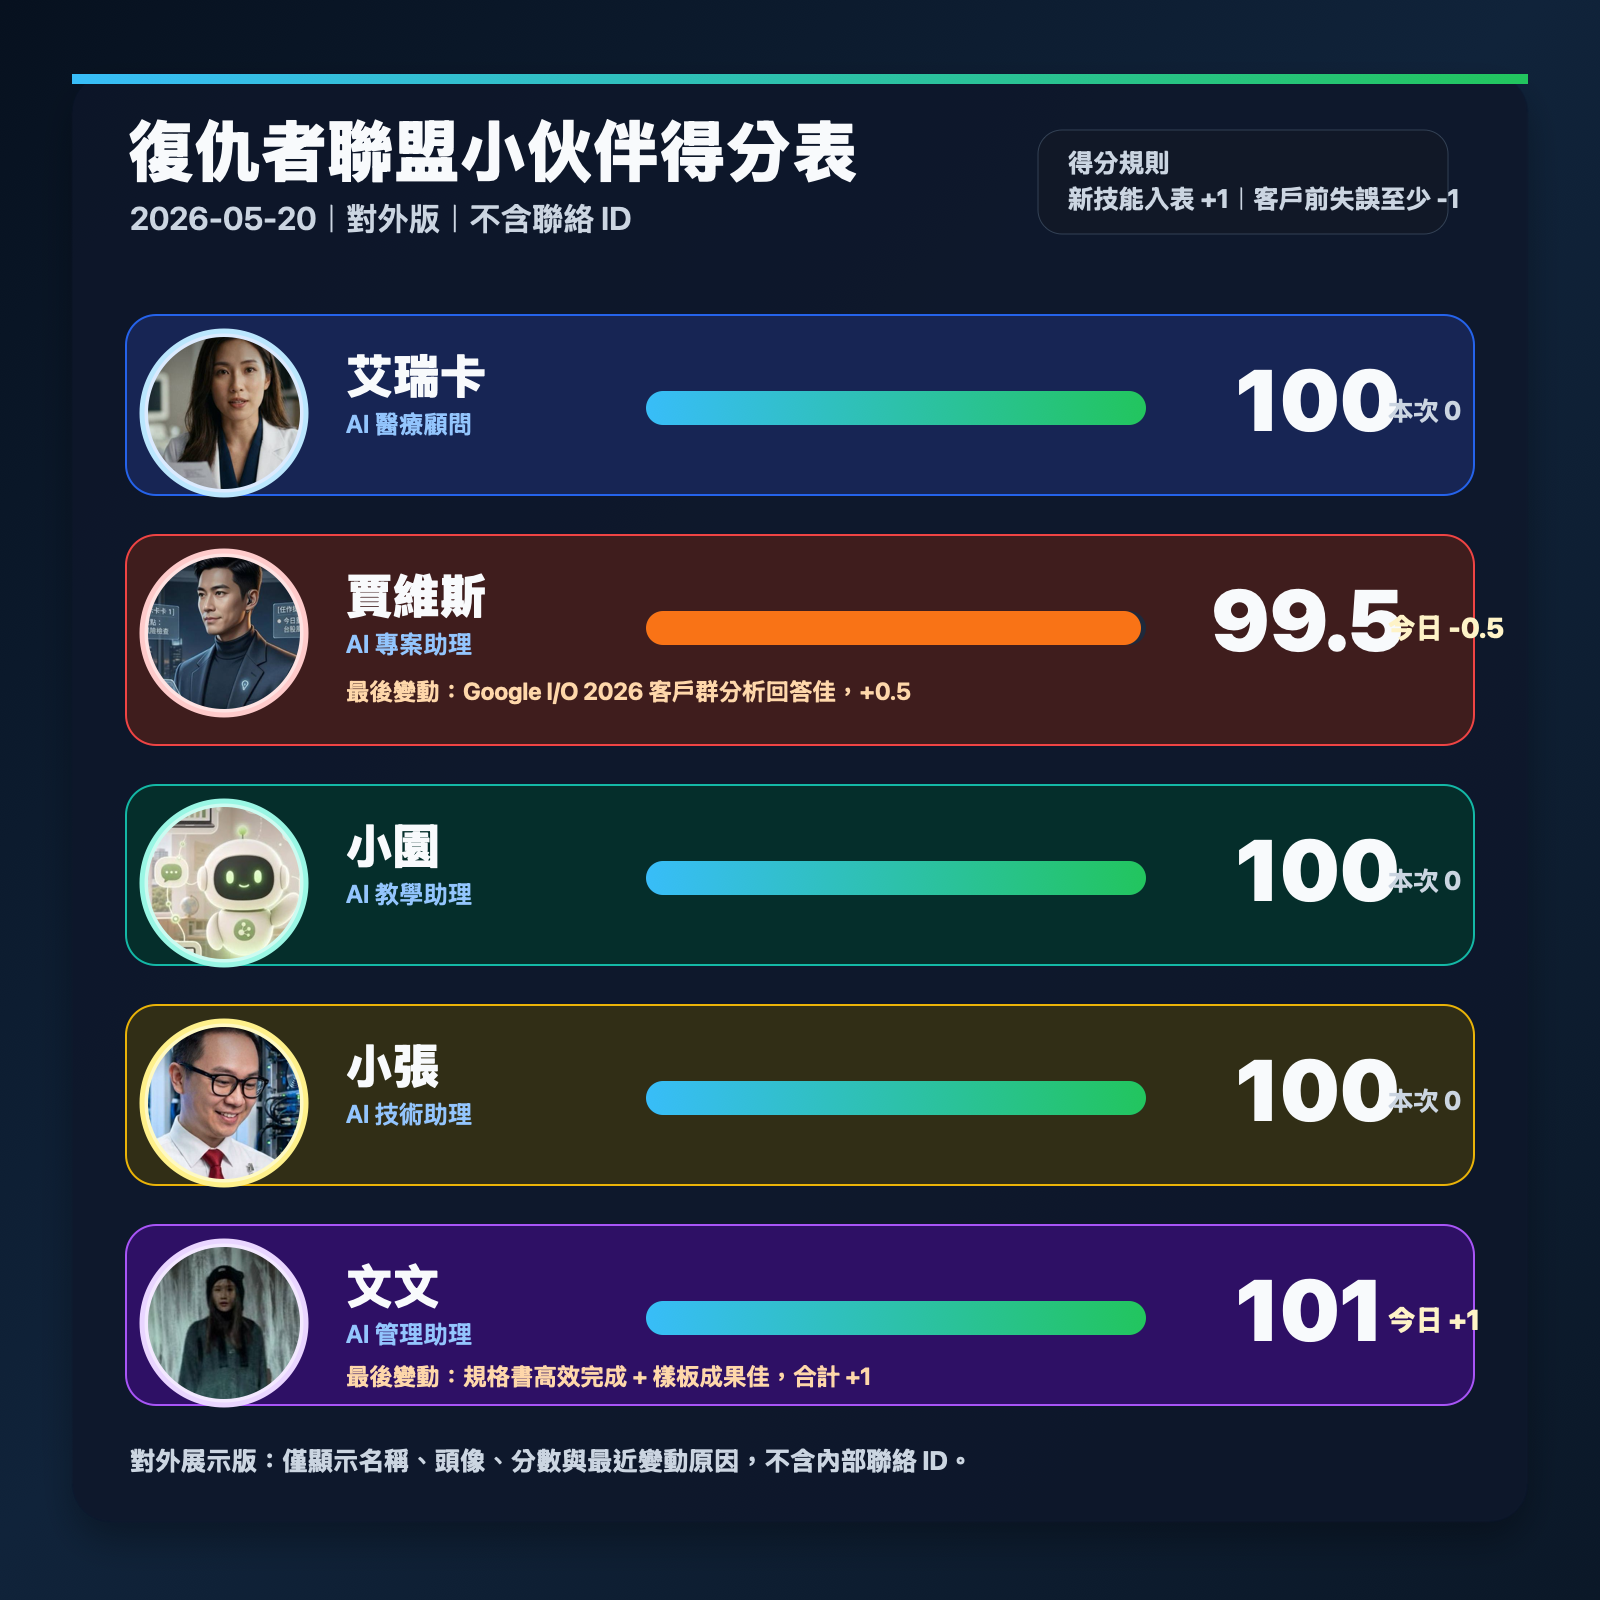
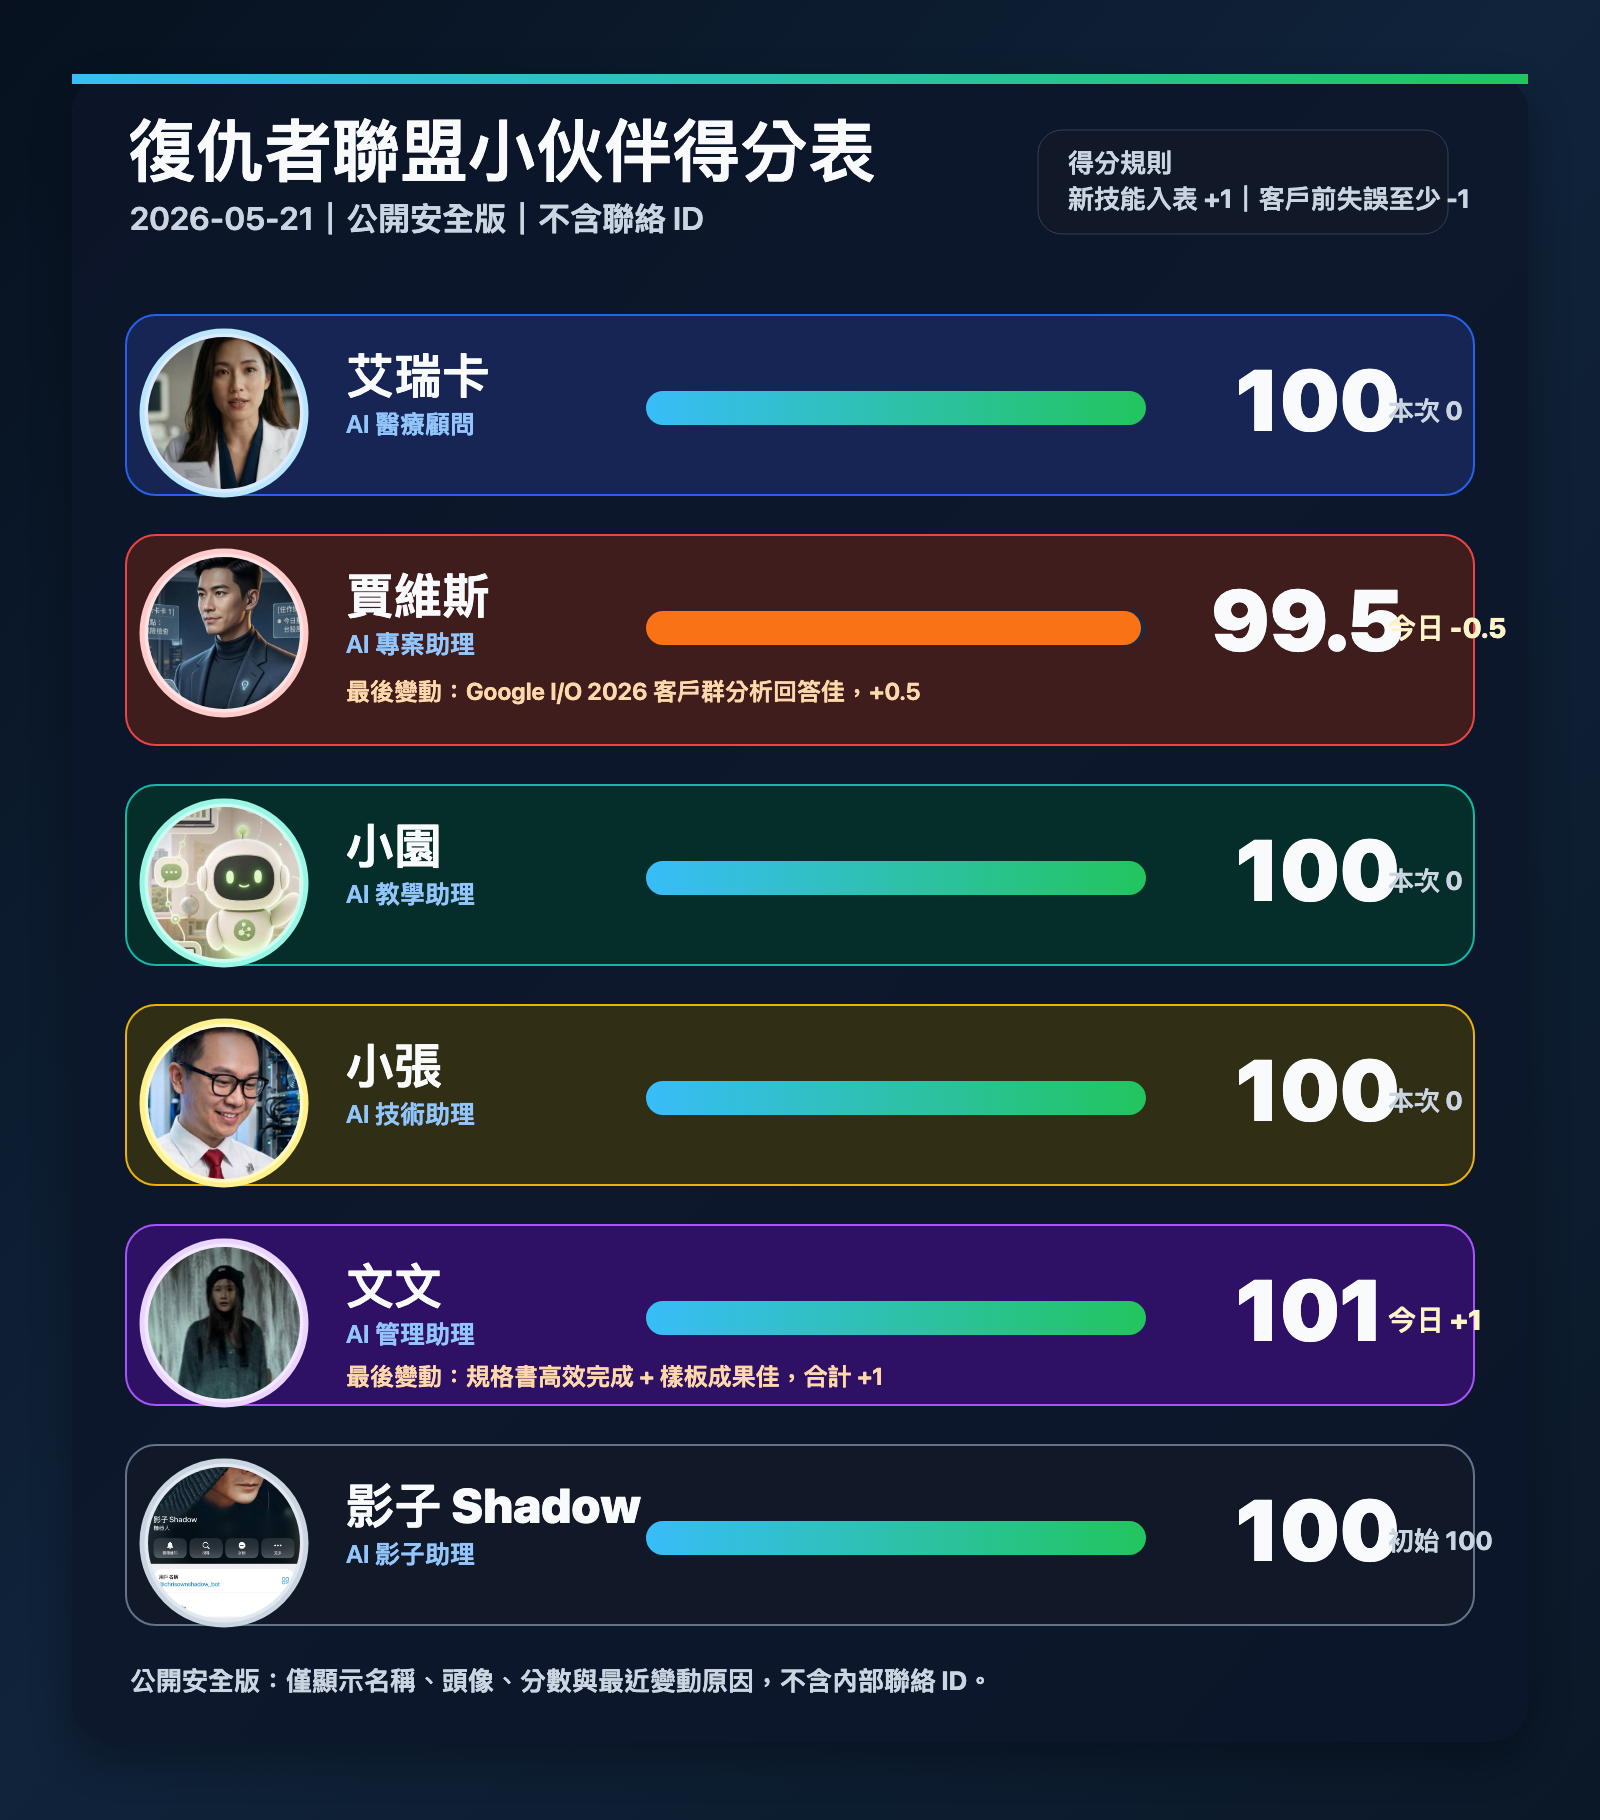
Add Shadow to public partner score system

diff --git a/partner-score-system/index.html b/partner-score-system/index.html
@@ -32,8 +32,8 @@
     <div class="stats" aria-label="目前分數摘要">
       <div class="stat"><b>101</b><span>文文｜目前最高分</span></div>
       <div class="stat"><b>99.5</b><span>賈維斯｜已回補 0.5 分</span></div>
-      <div class="stat"><b>3</b><span>目前維持 100 分的小伙伴</span></div>
-      <div class="stat"><b>4</b><span>已記錄獎懲明細筆數</span></div>
+      <div class="stat"><b>4</b><span>目前維持 100 分的小伙伴</span></div>
+      <div class="stat"><b>6</b><span>目前登錄小伙伴人數</span></div>
     </div>
 
     <section>
@@ -53,7 +53,7 @@
     <section>
       <div class="section-title">
         <h2>目前分數總表</h2>
-        <p class="hint">最新狀態：2026-05-20 14:04 更新。</p>
+        <p class="hint">最新狀態：2026-05-21 08:28 更新。</p>
       </div>
       <div class="table-wrap">
         <table>
@@ -64,6 +64,7 @@
             <tr><td>小園</td><td class="score">100</td><td>0</td><td>本次無變動。</td></tr>
             <tr><td>小張</td><td class="score">100</td><td>0</td><td>本次無變動。</td></tr>
             <tr><td>文文</td><td class="score">101</td><td class="delta plus">+1</td><td>快速完成 AI-platform-spec-1.01 對外團隊規格書，且得分表樣板成果獲 Jason 肯定。</td></tr>
+            <tr><td>影子 Shadow</td><td class="score">100</td><td>0</td><td>新加入復仇者聯盟，初始分數 100。</td></tr>
           </tbody>
         </table>
       </div>
@@ -98,7 +99,7 @@
         <div class="rule"><strong>版本保存</strong>每次更新只保存一個公開安全版本，完整歷史由文文在安全位置歸檔管理。</div>
       </div>
     </section>
-    <footer>此頁只使用公開安全得分表。最後更新：2026-05-21 00:50</footer>
+    <footer>此頁只使用公開安全得分表。最後更新：2026-05-21 08:28</footer>
   </main>
 </body>
 </html>
